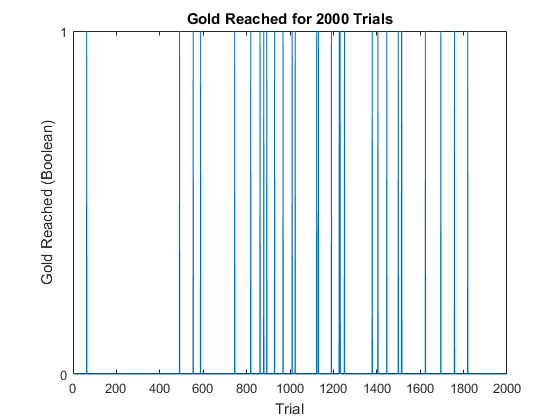
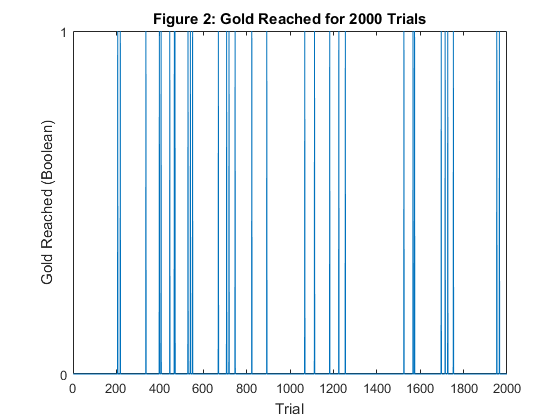
Reformated graphs to include Figure in title

Changed region(s): [[0.1518, 0.031, 0.85, 0.8976], [0.8804, 0.0619, 0.9107, 0.8976]]

diff --git a/Matlab/CS4300_run_A1_trials.m b/Matlab/CS4300_run_A1_trials.m
@@ -45,12 +45,12 @@ tch = 0;
 % Plot for Gold Reached
 % plot(res(:,1));
 % set(gca,'YTick',[0, 1] );
-% title('Gold Reached for 2000 Trials')
+% title('Figure 2: Gold Reached for 2000 Trials')
 % xlabel('Trial')
 % ylabel('Gold Reached (Boolean)')
 
 % Plot for Step Count
-% plot(res(:,2));
-% title('Number of Steps Needed to Reach Gold')
-% xlabel('Trial')
-% ylabel('Number of Steps')
+plot(res(:,2));
+title('Figure 3: Number of Steps Taken')
+xlabel('Trial')
+ylabel('Number of Steps')
